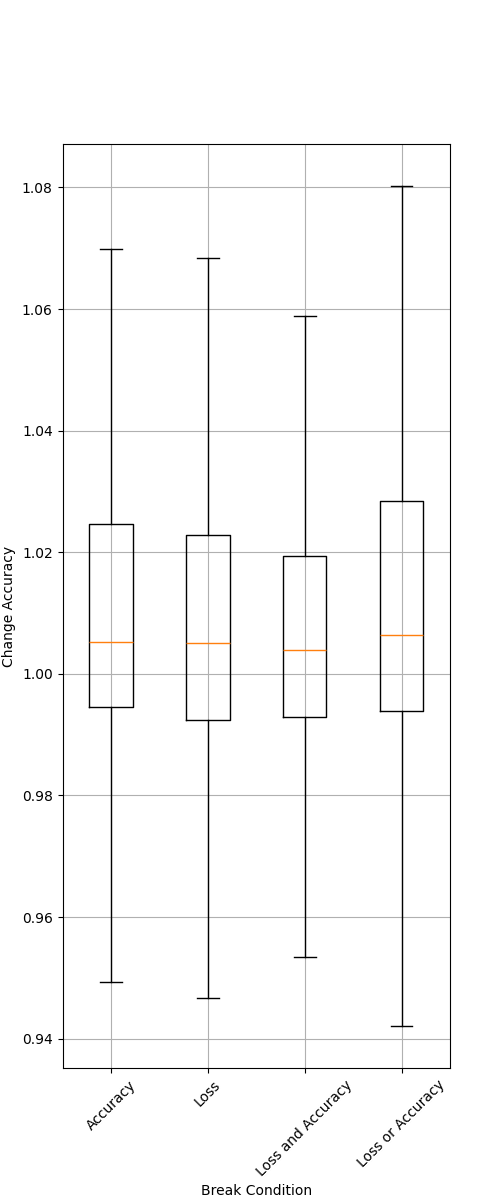
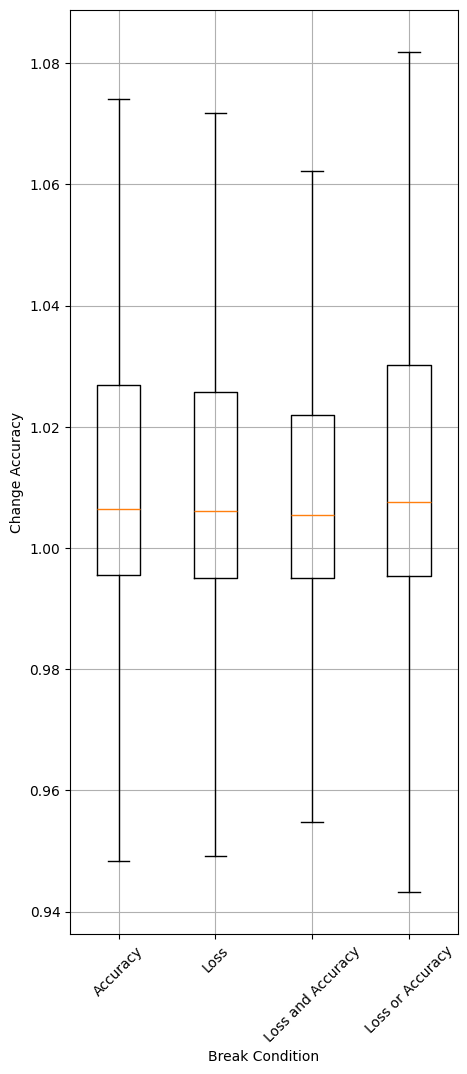
16.02.2024b

diff --git a/Bachelorarbeit/chapters/results.tex b/Bachelorarbeit/chapters/results.tex
@@ -4,12 +4,13 @@ To achieve this, the evaluation will be based on the following research question
 \begin{enumerate}
     \item[]\textbf{RQ1: Impact of Training on Mutated Models} How does training a mutated pre-trained model impact its performance metrics?
     \item[]\textbf{RQ2: Effects of Mutation Without Training} What is the effect on performance metrics when a pre-trained model is mutated without further training?
-    \item[]\textbf{RQ3: Training Dataset Size and Approach Performance} What is the impact of the size of the training dataset on the approach's effectiveness?
-    \item[]\textbf{RQ4: Influence of Suspiciousness Measures} How do different suspiciousness measures influence the outcomes of the experiments?
-    \item[]\textbf{RQ5: CNN vs. DNN Architectural Efficiency} Which architecture yields better results for our approach: CNN or DNN?
-    \item[]\textbf{RQ6: Offset Variations in Loss and Accuracy} How do variations in offset for loss and accuracy affect the approach's performance?
-    \item[]\textbf{RQ7: Break Conditions and Algorithm Performance} What is the effect of different break conditions on the efficiency and effectiveness of the algorithm?
-    \item[]\textbf{RQ8: Contributions of Different Mutation Functions} How do different mutation functions contribute to the model's performance with our Algorithm?
+    \item[]\textbf{RQ3: Effects of the extend of pre Training} What is the effect on performance metrics, depending on how many epochs the model is pre-trained?
+    \item[]\textbf{RQ4: Training Dataset Size and Approach Performance} What is the impact of the size of the training dataset on the approach's effectiveness?
+    \item[]\textbf{RQ5: Influence of Suspiciousness Measures} How do different suspiciousness measures influence the outcomes of the experiments?
+    \item[]\textbf{RQ6: CNN vs. DNN Architectural Efficiency} Which architecture yields better results for our approach: CNN or DNN?
+    \item[]\textbf{RQ7: Offset Variations in Loss and Accuracy} How do variations in offset for loss and accuracy affect the approach's performance?
+    \item[]\textbf{RQ8: Break Conditions and Algorithm Performance} What is the effect of different break conditions on the efficiency and effectiveness of the algorithm?
+    \item[]\textbf{RQ9: Contributions of Different Mutation Functions} How do different mutation functions contribute to the model's performance with our Algorithm?
 \end{enumerate}
 \section{Setup}\label{sec:setup}
 
@@ -37,6 +38,8 @@ Fo our evaluation we used the following parameters:
     \item[]\textbf{Sigma for random:} 0.5, 1
 \end{enumerate}
 \section{Impact of Training on Mutated Models}\label{sec:impact-of-training-on-mutated-models}
+In this section, we will discuss the impact of training on mutated models.
+Only till 20 Epochs, afterwards 5 epochs for untrained and 10 for trained models.
 \begin{figure}
     \centering
     \includegraphics[width=\textwidth]{plots/Trained_Change_Acc.png}
@@ -51,6 +54,7 @@ Fo our evaluation we used the following parameters:
     \label{fig:decay_training}
 \end{figure}
 \section{Effects of Mutation Without Training}\label{sec:effects-of-mutation-without-training}
+Only till 20 Epochs, afterwards 5 epochs for untrained and 10 for trained models.
 \begin{figure}
     \centering
     \includegraphics[width=\textwidth]{plots/NotTrained_Change_Acc.png}
@@ -63,6 +67,31 @@ Fo our evaluation we used the following parameters:
     \includegraphics[width=\textwidth]{plots/NotTrained_Points_perEpoch.png}
     \caption{Decay of data points, per epoch, without training}
     \label{fig:decay_Notraining}
+\end{figure}
+\section{Effects of the extend of pre Training}\label{sec:effects-of-the-extend-of-pre-training}
+\begin{figure}
+    \begin{subfigure}{0.5\textwidth}
+        \centering
+        \includegraphics[width=0.95\textwidth]{plots/InitEpoch_NotTrained_accuracy.png}
+    \end{subfigure}
+    \begin{subfigure}{0.5\textwidth}
+        \centering
+        \includegraphics[width=0.95\textwidth]{plots/InitEpoch_NotTrained_loss.png}
+    \end{subfigure}
+    \caption{Loss and accuracy, without training, with different initial epochs}
+    \label{fig:initial-epochs-notraining}
+\end{figure}
+\begin{figure}
+    \begin{subfigure}{0.5\textwidth}
+        \centering
+        \includegraphics[width=0.95\textwidth]{plots/InitEpoch_Trained_accuracy.png}
+    \end{subfigure}
+    \begin{subfigure}{0.5\textwidth}
+        \centering
+        \includegraphics[width=0.95\textwidth]{plots/InitEpoch_Trained_loss.png}
+    \end{subfigure}
+    \caption{Loss and accuracy, with training, with different initial epochs}
+    \label{fig:initial-epochs-training}
 \end{figure}
 \section{Training Dataset Size and Model Performance}\label{sec:training-dataset-size-and-model-performance}
 \begin{figure}

diff --git a/figures/preEpoch.py b/figures/preEpoch.py
@@ -3,46 +3,41 @@ import matplotlib.pyplot as plt
 
 df = pd.read_hdf("../processed_data/concatenated_data.h5", key="df")
 
+df_not_trained = df[(df.trained_between_iterations == False) & (df.epoch <= 5)].groupby('initial_epochs')
+df_trained = df[(df.trained_between_iterations == True) & (df.epoch <= 10)].groupby('initial_epochs')
 
-df_not_trained = df[(df.trained_between_iterations == False) & (df.epoch <= 5)].groupby('approach_analysis')
-df_trained = df[(df.trained_between_iterations == True) & (df.epoch <= 10)].groupby('approach_analysis')
-
-plt.figure(figsize=(5, 8))
+plt.figure(figsize=(5, 6))
 labels_trained = [name for name, _ in df_trained]
 data_trained = [group['change_accuracy'].tolist() for name, group in df_trained]
 plt.boxplot(data_trained, labels=labels_trained, showfliers=False)
-plt.xlabel('Suspiciousness Meassure')
+plt.xlabel('Initial Epochs')
 plt.ylabel('Change Accuracy')
-plt.xticks(rotation=45)  # Adjust rotation as needed
 plt.grid()
 plt.show()
 
-plt.figure(figsize=(5, 8))
+plt.figure(figsize=(5, 6))
 labels_not_trained = [name for name, _ in df_not_trained]
 data_not_trained = [group['change_accuracy'].tolist() for name, group in df_not_trained]
 plt.boxplot(data_not_trained, labels=labels_not_trained, showfliers=False)
-plt.xlabel('Suspiciousness Meassure')
+plt.xlabel('Initial Epochs')
 plt.ylabel('Change Accuracy')
-plt.xticks(rotation=45)  # Adjust rotation as needed
 plt.grid()
 plt.show()
 
-plt.figure(figsize=(5, 8))
+plt.figure(figsize=(5, 6))
 labels_trained = [name for name, _ in df_trained]
 data_trained = [group['change_loss'].tolist() for name, group in df_trained]
 plt.boxplot(data_trained, labels=labels_trained, showfliers=False)
-plt.xlabel('Suspiciousness Meassure')
+plt.xlabel('Initial Epochs')
 plt.ylabel('Change Loss')
-plt.xticks(rotation=45)  # Adjust rotation as needed
 plt.grid()
 plt.show()
 
-plt.figure(figsize=(5, 8))
+plt.figure(figsize=(5, 6))
 labels_not_trained = [name for name, _ in df_not_trained]
 data_not_trained = [group['change_loss'].tolist() for name, group in df_not_trained]
 plt.boxplot(data_not_trained, labels=labels_not_trained, showfliers=False)
-plt.xlabel('Suspiciousness Meassure')
+plt.xlabel('Initial Epochs')
 plt.ylabel('Change Loss')
-plt.xticks(rotation=45)  # Adjust rotation as needed
 plt.grid()
 plt.show()

diff --git a/figures/BreakCondition.py b/figures/BreakCondition.py
@@ -3,10 +3,8 @@ import matplotlib.pyplot as plt
 
 df = pd.read_hdf("../processed_data/concatenated_data.h5", key="df")
 
-df = df[df.epoch <= 20]
-
-df_not_trained = df[df.trained_between_iterations == False].groupby('break_condition')
-df_trained = df[df.trained_between_iterations == True].groupby('break_condition')
+df_not_trained = df[(df.trained_between_iterations == False) & (df.epoch <= 5)].groupby('break_condition')
+df_trained = df[(df.trained_between_iterations == True) & (df.epoch <= 10)].groupby('break_condition')
 
 plt.figure(figsize=(5, 12))
 labels_trained = [name for name, _ in df_trained]
@@ -16,6 +14,7 @@ plt.xlabel('Break Condition')
 plt.ylabel('Change Accuracy')
 plt.xticks(rotation=45)  # Adjust rotation as needed
 plt.grid()
+plt.savefig('figures/BreakCondition_Trained_accuracy.png', bbox_inches='tight')
 plt.show()
 
 plt.figure(figsize=(5, 12))
@@ -26,6 +25,7 @@ plt.xlabel('Break Condition')
 plt.ylabel('Change Accuracy')
 plt.xticks(rotation=45)  # Adjust rotation as needed
 plt.grid()
+plt.savefig('figures/BreakCondition_NotTrained_accuracy.png', bbox_inches='tight')
 plt.show()
 
 plt.figure(figsize=(5, 12))
@@ -36,6 +36,7 @@ plt.xlabel('Break Condition')
 plt.ylabel('Change Loss')
 plt.xticks(rotation=45)  # Adjust rotation as needed
 plt.grid()
+plt.savefig('figures/BreakCondition_Trained_loss.png', bbox_inches='tight')
 plt.show()
 
 plt.figure(figsize=(5, 12))
@@ -46,4 +47,5 @@ plt.xlabel('Break Condition')
 plt.ylabel('Change Loss')
 plt.xticks(rotation=45)  # Adjust rotation as needed
 plt.grid()
+plt.savefig('figures/BreakCondition_NotTrained_loss.png', bbox_inches='tight')
 plt.show()

diff --git a/figures/untrained_models.py b/figures/untrained_models.py
@@ -17,7 +17,7 @@ df_not_trained = df_not_trained.groupby('epoch')
 df_trained = df_trained.groupby('epoch')
 
 # First plot: Trained Models Delta Accuracy
-plt.figure(figsize=(10, 6))
+plt.figure(figsize=(10, 5))
 plt.boxplot(df_not_trained['change_accuracy'].apply(list), showfliers=False)
 plt.xlabel('Epoch')
 plt.ylabel('Change Accuracy')
@@ -25,7 +25,7 @@ plt.grid()
 plt.show()  # Show the first plot
 
 # Second plot: Trained Models Delta Loss
-plt.figure(figsize=(10, 6))
+plt.figure(figsize=(10, 5))
 plt.boxplot(df_not_trained['change_loss'].apply(list), showfliers=False)
 plt.xlabel('Epoch')
 plt.ylabel('Change Loss')

diff --git a/figures/trained_models.py b/figures/trained_models.py
@@ -17,7 +17,7 @@ df_not_trained = df_not_trained.groupby('epoch')
 df_trained = df_trained.groupby('epoch')
 
 # First plot: Trained Models Delta Accuracy
-plt.figure(figsize=(10, 6))
+plt.figure(figsize=(10, 5))
 plt.boxplot(df_trained['change_accuracy'].apply(list), showfliers=False)
 plt.xlabel('Epoch')
 plt.ylabel('Change Accuracy')
@@ -25,7 +25,7 @@ plt.grid()
 plt.show()  # Show the first plot
 
 # Second plot: Trained Models Delta Loss
-plt.figure(figsize=(10, 6))
+plt.figure(figsize=(10, 5))
 plt.boxplot(df_trained['change_loss'].apply(list), showfliers=False)
 plt.xlabel('Epoch')
 plt.ylabel('Change Loss')

diff --git a/figures/Offset.py b/figures/Offset.py
@@ -5,8 +5,8 @@ df = pd.read_hdf("../processed_data/concatenated_data.h5", key="df")
 
 df = df[df.epoch <= 20]
 
-df_not_trained = df[df.trained_between_iterations == False].groupby('regression_loss_offset')
-df_trained = df[df.trained_between_iterations == True].groupby('regression_loss_offset')
+df_not_trained = df[(df.trained_between_iterations == False) & (df.epoch <= 5)].groupby('regression_loss_offset')
+df_trained = df[(df.trained_between_iterations == True) & (df.epoch <= 10)].groupby('regression_loss_offset')
 
 plt.figure(figsize=(5, 6))
 labels_trained = [name for name, _ in df_trained]

diff --git a/figures/Architecture.py b/figures/Architecture.py
@@ -3,10 +3,8 @@ import matplotlib.pyplot as plt
 
 df = pd.read_hdf("../processed_data/concatenated_data.h5", key="df")
 
-df = df[df.epoch <= 20]
-
-df_not_trained = df[df.trained_between_iterations == False].groupby('architecture')
-df_trained = df[df.trained_between_iterations == True].groupby('architecture')
+df_not_trained = df[(df.trained_between_iterations == False) & (df.epoch <= 5)].groupby('architecture')
+df_trained = df[(df.trained_between_iterations == True) & (df.epoch <= 10)].groupby('architecture')
 
 plt.figure(figsize=(5, 7))
 labels_trained = [name for name, _ in df_trained]

diff --git a/figures/DataSetSize.py b/figures/DataSetSize.py
@@ -3,10 +3,8 @@ import matplotlib.pyplot as plt
 
 df = pd.read_hdf("../processed_data/concatenated_data.h5", key="df")
 
-df = df[df.epoch <= 20]
-
-df_not_trained = df[df.trained_between_iterations == False].groupby('dataset')
-df_trained = df[df.trained_between_iterations == True].groupby('dataset')
+df_not_trained = df[(df.trained_between_iterations == False) & (df.epoch <= 5)].groupby('dataset')
+df_trained = df[(df.trained_between_iterations == True) & (df.epoch <= 10)].groupby('dataset')
 
 plt.figure(figsize=(5, 7))
 labels_trained = [name for name, _ in df_trained]
